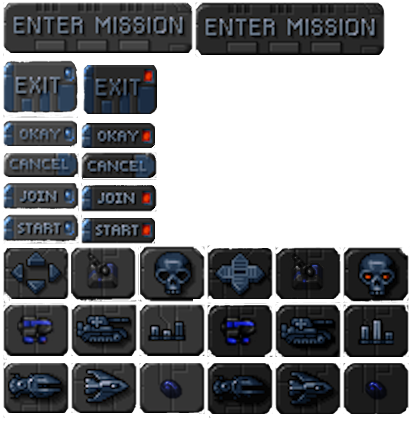
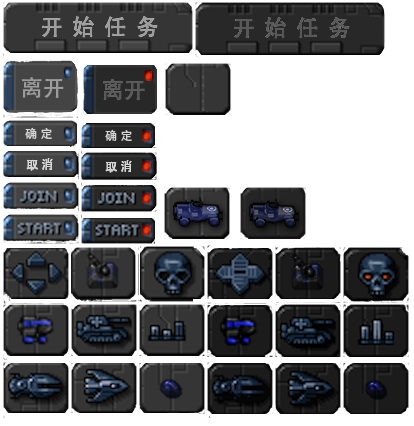
添加新的车辆单位装甲车 添加新的装甲车图像和图标 添加新的鼠标样式 修改按钮烂的显示方式

diff --git a/js/sidebar.js b/js/sidebar.js
@@ -1,7 +1,9 @@
 var sidebar = {
     init:function(){
         this.cash = document.getElementById("cash");
-
+        document.getElementById("armoredcarbutton").addEventListener("click",function(){
+            sidebar.constructAtStarport({type:"vehicles","name":"armoredcar"});
+        });
         document.getElementById("scouttankbutton").addEventListener("click",function(){
             sidebar.constructAtStarport({type:"vehicles","name":"scout-tank"});
         });
@@ -25,7 +27,7 @@ var sidebar = {
         document.getElementById("turretbutton").addEventListener("click",function(){
             game.deployBuilding = "ground-turret";
         });
-        
+        this.hideSidebarbuttons();
     },
     constructAtStarport:function(unitDetails){
         var starport;
@@ -88,7 +90,7 @@ var sidebar = {
     },
     enableSidebarButtons:function(){
         //仅当相应的建筑被选中时启用按钮
-        var buttons = document.getElementById("sidebarbuttons").getElementsByTagName("input");
+        var buttons = document.getElementById("sidebar").getElementsByTagName("input");
         
         for(var i = 0;i<buttons.length;i++){
             buttons[i].disabled=true;
@@ -115,8 +117,10 @@ var sidebar = {
         let cashBalance = game.cash[game.team];
 
         //
+        this.hideSidebarbuttons();
         
         if(baseSelected && !game.deployBuilding){
+            document.getElementById("basebtn").style.display = "block";
             if(game.currentLevel.requirements.buildings.indexOf("starport")>-1 && cashBalance>=buildings.list["starport"].cost){
                 document.getElementById("starportbutton").disabled = false;
             }
@@ -126,6 +130,10 @@ var sidebar = {
         }
 
         if(starportSelected){
+            document.getElementById("starportbtn").style.display = "block";
+            if(game.currentLevel.requirements.vehicles.indexOf("armoredcar")>-1 && cashBalance>=vehicles.list["armoredcar"].cost){
+                document.getElementById("armoredcarbutton").disabled = false;
+            }
             if(game.currentLevel.requirements.vehicles.indexOf("scout-tank")>-1 && cashBalance>=vehicles.list["scout-tank"].cost){
                 document.getElementById("scouttankbutton").disabled = false;
             }
@@ -140,6 +148,15 @@ var sidebar = {
             }
             if(game.currentLevel.requirements.aircraft.indexOf("wraith")>-1 && cashBalance>=aircraft.list["wraith"].cost){
                 document.getElementById("wraithbutton").disabled = false;
+            }
+        }
+    },
+    hideSidebarbuttons:function(){
+        var eles = document.getElementsByClassName("sidebarbuttons");
+        if(eles.length>0){
+            for(var i = 0;i<eles.length;i++){
+                var ele = eles[i];
+                ele.style.display = "none";
             }
         }
     },

diff --git a/index.html b/index.html
@@ -55,18 +55,21 @@
                     <div id="gamemessages"></div>
                     <div id="callerpicture"></div>
                     <div id="cash"></div>
-                    <div id="sidebarbuttons">
-                        <input type="button" id="starportbutton" title="星港">
-                        <input type="button" id="turretbutton" title="炮塔">
-                        <!-- <input type="button" id="placeholder1" disabled> -->
+                    <div id = "sidebar">
+                        <div id="basebtn" class="sidebarbuttons">
+                            <input type="button" id="starportbutton" title="星港">
+                            <input type="button" id="turretbutton" title="炮塔">
+                        </div>
+                        <div id="starportbtn" class="sidebarbuttons">
+                            <input type="button" id="armoredcarbutton" title="装甲车">
+                            <input type="button" id="scouttankbutton" title="轻型坦克">
+                            <input type="button" id="heavytankbutton" title="重型坦克">
+                            <input type="button" id="harvesterbutton" title="采油车">
 
-                        <input type="button" id="scouttankbutton" title="轻型坦克">
-                        <input type="button" id="heavytankbutton" title="重型坦克">
-                        <input type="button" id="harvesterbutton" title="采油车">
-
-                        <input type="button" id="chopperbutton" title="直升飞机">
-                        <input type="button" id="wraithbutton" title="战斗机">
-                        <!-- <input type="button" id="placeholder2" title="disabled"> -->
+                            <input type="button" id="chopperbutton" title="直升飞机">
+                            <input type="button" id="wraithbutton" title="战斗机">
+                            <!-- <input type="button" id="placeholder2" title="disabled"> -->
+                        </div>
                     </div>
                     <canvas id="gamebackgroundcanvas" height="400" width="480"></canvas>
                     <canvas id="gameforegroundcanvas" height="400" width="480"></canvas>

diff --git a/styles.css b/styles.css
@@ -232,7 +232,7 @@ input[type="button"] {
 }
 
 /* 侧边栏按钮 */
-#gameinterfacescreen #sidebarbuttons{
+#gameinterfacescreen .sidebarbuttons{
     position: absolute;
 
     right: 12px;
@@ -248,7 +248,7 @@ input[type="button"] {
     /* border:1px solid red; */
 }
 
-#gameinterfacescreen #sidebarbuttons input[type="button"]{
+#gameinterfacescreen .sidebarbuttons input[type="button"]{
     width: 64px;
     height: 54px;
     padding: 0;
@@ -267,6 +267,9 @@ input[type="button"] {
 }
 #turretbutton:active,#turretbutton:disabled{
     background-position: -278px -247px;
+}
+#armoredcarbutton:active,#armoredcarbutton:disabled{
+    background-position: -243px -188px;
 }
 #scouttankbutton:active,#scouttankbutton:disabled{
     background-position: -208px -306px;
@@ -300,6 +303,11 @@ input[type="button"] {
 #turretbutton{
     right: 0;
     background-position: -74px -247px;
+}
+#armoredcarbutton{
+    right: 0;
+    top: 55px;
+    background-position: -168px -188px;
 }
 #scouttankbutton{
     left: 0;

diff --git a/js/maps-new.js b/js/maps-new.js
@@ -299,7 +299,7 @@ var maps = {
             //预加载的单位类型
             "requirements":{
                 "buildings":["base","ground-turret","starport","harvester"],
-                "vehicles":["transport","scout-tank","heavy-tank"],
+                "vehicles":["transport","scout-tank","heavy-tank","armoredcar"],
                 "aircraft":["chopper","wraith"],
                 "terrain":["779-1"]
             },
@@ -319,6 +319,8 @@ var maps = {
                 {"type":"buildings","name":"ground-turret",x:7,y:28,"team":"blue"},
                 {"type":"buildings","name":"ground-turret",x:8,y:32,"team":"blue"},
                 {"type":"buildings","name":"ground-turret",x:11,y:37,"team":"blue"},
+
+                // {"type":"vehicles","name":"armoredcar",x:5,y:28,"team":"blue","direction":2},
 
                 /**需要保护的运输车 */
                 {"type":"vehicles","name":"transport",x:2,y:33,"team":"blue","direction":2,"selectable":false,"uid":-1},

diff --git a/js/vehicles.js b/js/vehicles.js
@@ -72,6 +72,26 @@ var vehicles = {
                 {name:"stand",count:1,directions:8}
             ],
         },
+        "armoredcar":{
+            name:"armoredcar",
+            canAttack:true,
+            canAttackLand:true,
+            canAttackAir:true,
+            weaponType:"bullet",
+            pixelWidth:30,
+            pixelHeight:30,
+            pixelOffsetX:15,
+            pixelOffsetY:15,
+            radius:13,
+            speed:25,
+            sight:5,
+            cost:500,
+            hitPoints:40,
+            turnSpeed:4,
+            spriteImages:[
+                {name:"stand",count:1,directions:8}
+            ],
+        },
     },
     defaults:{
         type:"vehicles",
